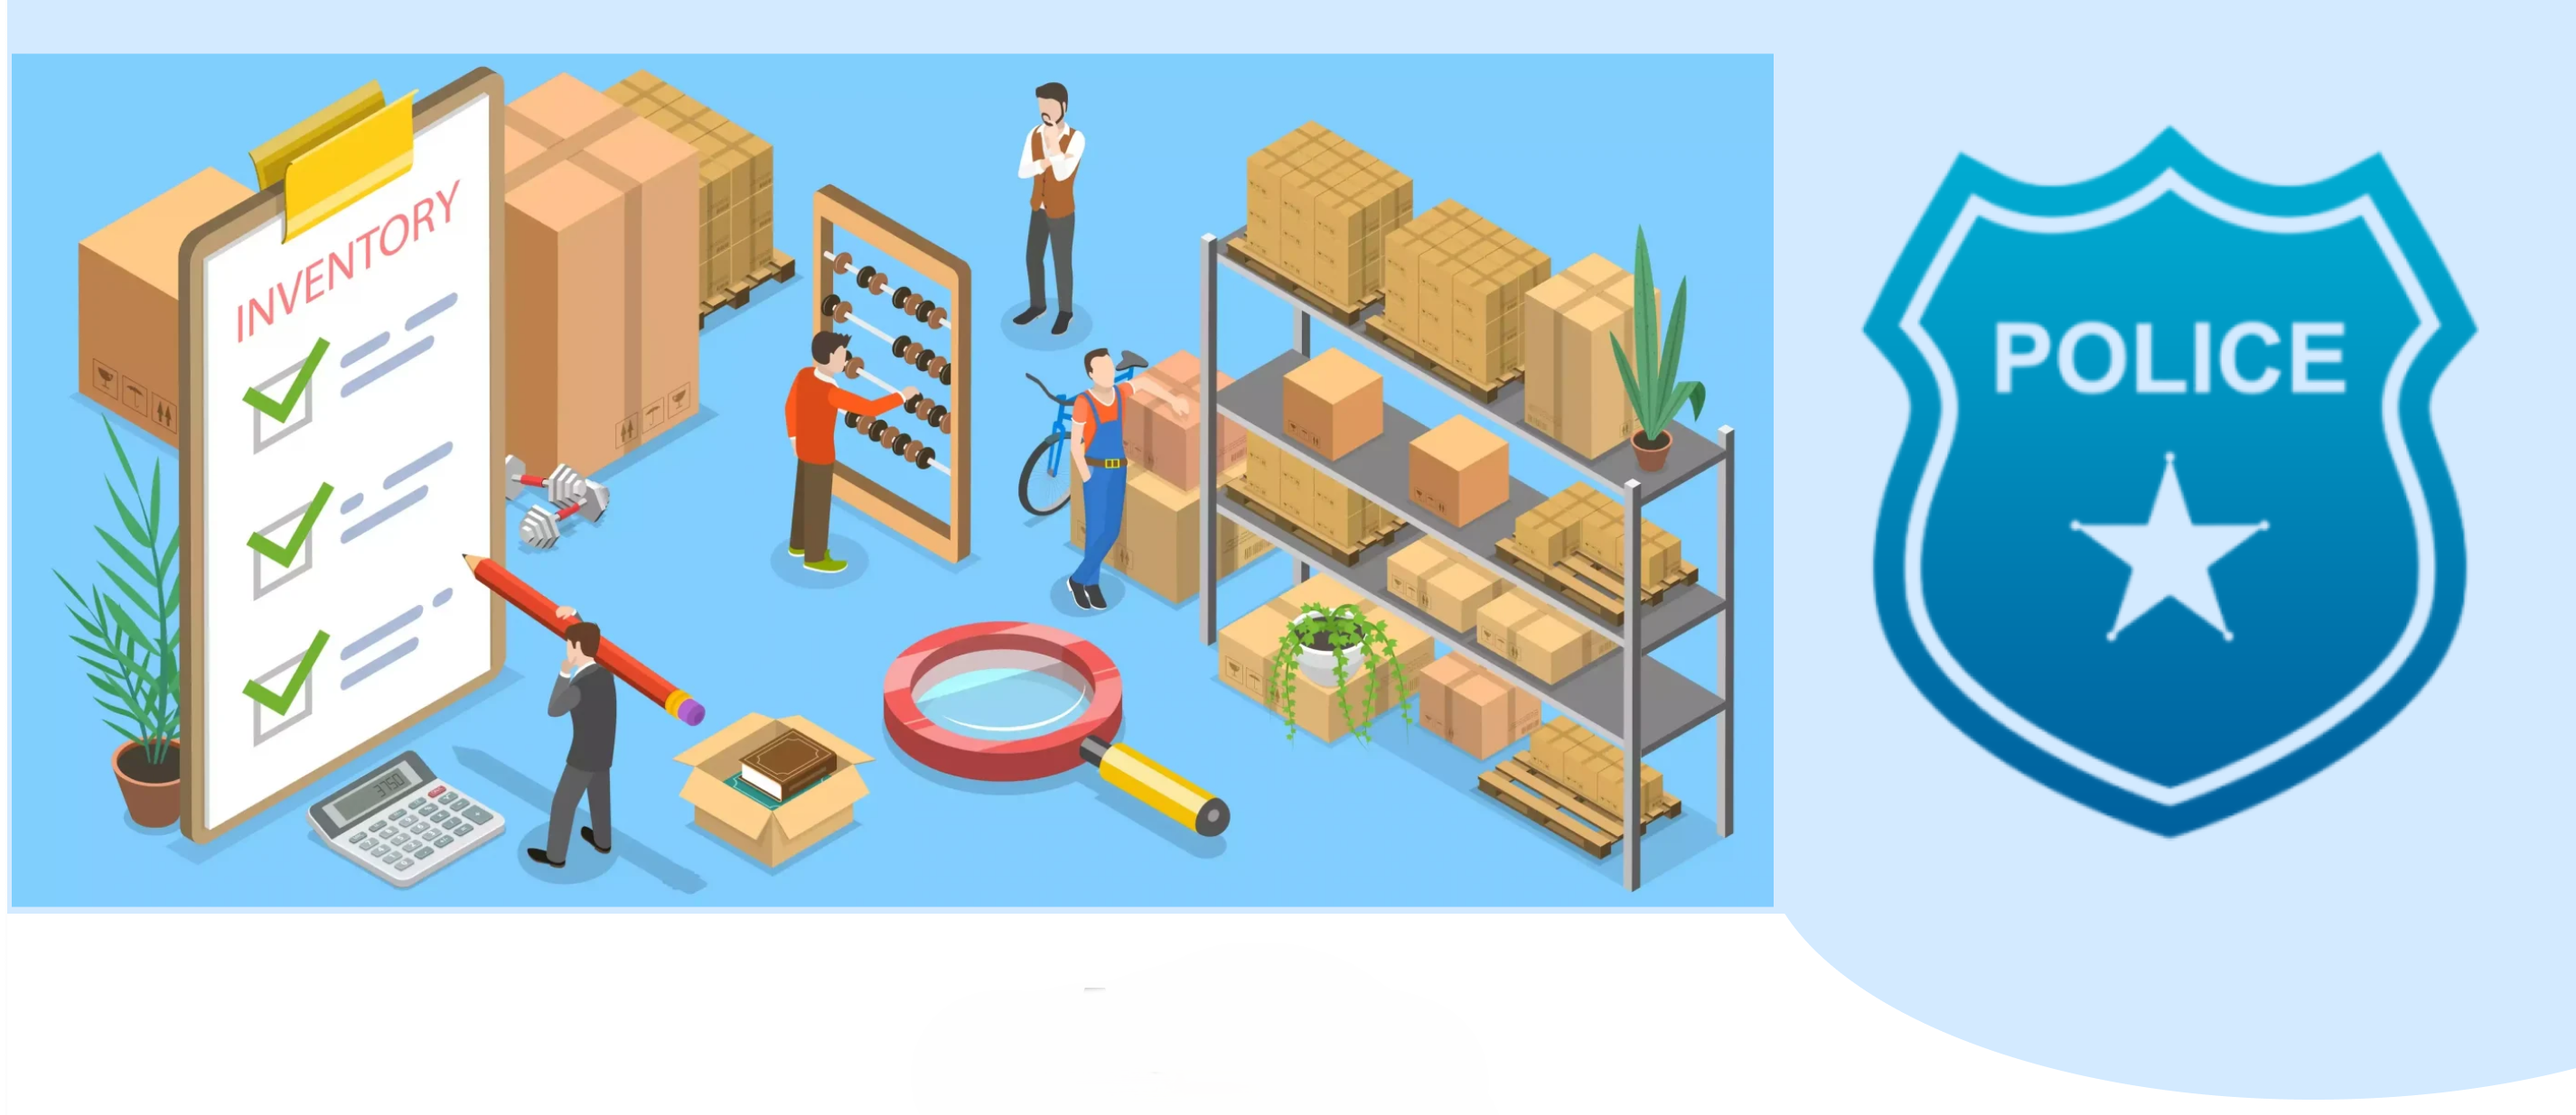
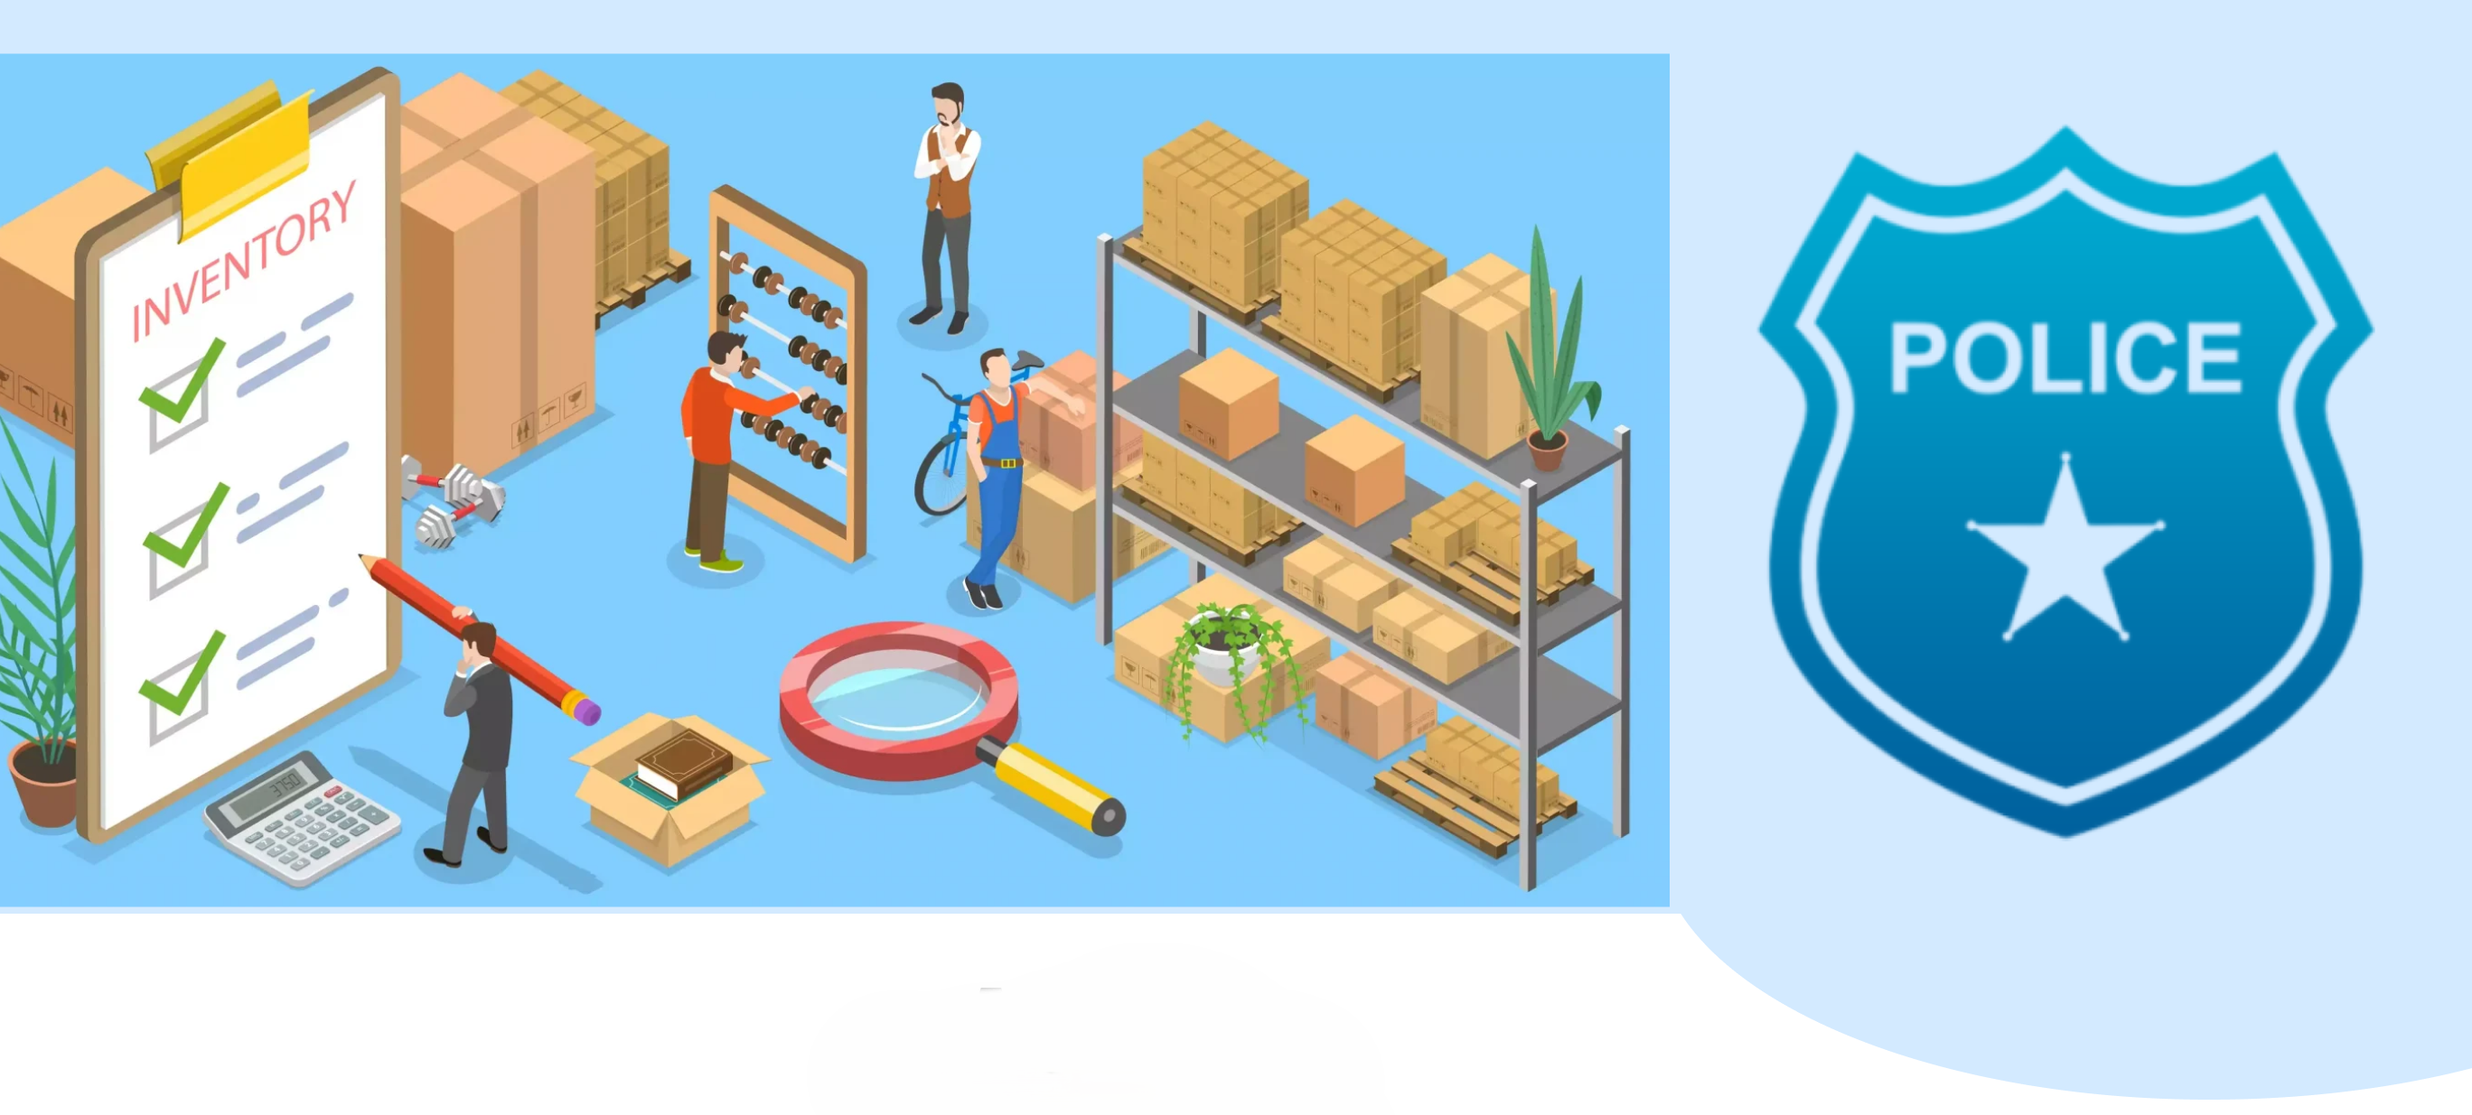
changes in Hero page

diff --git a/frontend/src/components/Hero.jsx b/frontend/src/components/Hero.jsx
@@ -1,5 +1,5 @@
 import HeroPage from "/Hero/adminPage.png";
-import PoliceBadge from "/Hero/police-badge.png";
+// import PoliceBadge from "/Hero/police-badge.png";
 
 export default function Hero() {
   return (
@@ -7,9 +7,9 @@ export default function Hero() {
       className="bg-cover bg-center w-full h-screen"
       style={{ backgroundImage: `url(${HeroPage})` }}
     >
-      <div className="h-4/5 w-96 bg-[#d3eaff] absolute right-0 mt-16 ">
+      {/* <div className="h-4/5 w-96 bg-[#d3eaff] absolute right-0 mt-16 ">
         <img src={PoliceBadge} alt="" />
-      </div>
+      </div> */}
     </div>
   );
 }
